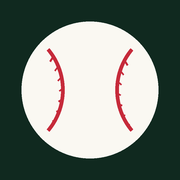
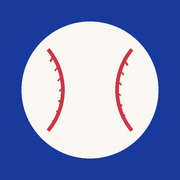
앱 전체 색을 팀 색(파란색)으로
- 전광판, 점수판, 강조색, 다크 모드를 파란 계열로
- 투구수 제한 표시는 빨간색으로 구분
- 앱 아이콘과 설치 시 배경색도 파란색

Claude-Session: https://claude.ai/code/session_01YaH1kdZ2WuPGiQRSLVYmve

diff --git a/index.html b/index.html
@@ -3,7 +3,7 @@
 <head>
 <meta charset="utf-8">
 <meta name="viewport" content="width=device-width, initial-scale=1, viewport-fit=cover">
-<meta name="theme-color" content="#f2f4f7" media="(prefers-color-scheme: light)">
+<meta name="theme-color" content="#f1f4fa" media="(prefers-color-scheme: light)">
 <meta name="theme-color" content="#0b1018" media="(prefers-color-scheme: dark)">
 <meta name="description" content="유소년 야구 경기 기록지: 볼카운트, 타격 결과, 이닝별 투수와 투구수, 시즌 성적">
 <meta name="mobile-web-app-capable" content="yes">
@@ -17,23 +17,23 @@
 <style>
 /* Layout: native-feeling phone app — sticky app bar, bottom nav (home/players/settings), game screen with thumb-zone pitch pad, bottom sheets, full-screen scoreboard */
 :root{
-  --bg:#f2f4f7; --surface:#ffffff; --surface2:#e8ecf1; --ink:#121b2d; --muted:#5c677a; --line:#dbe0e8;
-  --brand:#123524; --brand2:#1c4733; --brand-fg:#eef3ec; --lamp:#ffc642;
-  --seam:#c8303f; --seam-soft:#fbe6e8;
+  --bg:#f1f4fa; --surface:#ffffff; --surface2:#e6ebf5; --ink:#101a33; --muted:#5a6680; --line:#d8dfec;
+  --brand:#173a9c; --brand2:#2147b4; --brand-fg:#eef3ff; --lamp:#ffc642;
+  --seam:#2b5bd7; --seam-soft:#e6edfd; --on-accent:#ffffff;
   --ball:#2c8a53; --strike:#c07605; --out:#cf2a35; --on-sem:#ffffff;
   --scrim:rgba(10,15,25,.45); --warn-soft:#fff1d6; --snack:#121b2d; --shadow:0 8px 28px rgba(16,24,40,.14);
   --f:system-ui,-apple-system,"Apple SD Gothic Neo","Noto Sans KR","Malgun Gothic",sans-serif;
 }
 @media (prefers-color-scheme: dark){:root:not([data-theme="light"]){
   --bg:#0b1018; --surface:#141b27; --surface2:#1d2634; --ink:#e7ecf3; --muted:#949fb2; --line:#273143;
-  --brand:#0c2418; --brand2:#18402c; --brand-fg:#e4ebe1; --lamp:#ffcc55;
-  --seam:#ff5f6d; --seam-soft:#3a1a21;
+  --brand:#142a6e; --brand2:#1d3a8f; --brand-fg:#e3eaff; --lamp:#ffcc55;
+  --seam:#7fa4ff; --seam-soft:#18264a; --on-accent:#0b1018;
   --ball:#4cc27c; --strike:#f0a83a; --out:#ff6b74; --on-sem:#0b1018;
   --scrim:rgba(0,0,0,.6); --warn-soft:#3b2d12; --snack:#2b3648; --shadow:0 8px 28px rgba(0,0,0,.45); color-scheme:dark}}
 :root[data-theme="dark"]{
   --bg:#0b1018; --surface:#141b27; --surface2:#1d2634; --ink:#e7ecf3; --muted:#949fb2; --line:#273143;
-  --brand:#0c2418; --brand2:#18402c; --brand-fg:#e4ebe1; --lamp:#ffcc55;
-  --seam:#ff5f6d; --seam-soft:#3a1a21;
+  --brand:#142a6e; --brand2:#1d3a8f; --brand-fg:#e3eaff; --lamp:#ffcc55;
+  --seam:#7fa4ff; --seam-soft:#18264a; --on-accent:#0b1018;
   --ball:#4cc27c; --strike:#f0a83a; --out:#ff6b74; --on-sem:#0b1018;
   --scrim:rgba(0,0,0,.6); --warn-soft:#3b2d12; --snack:#2b3648; --shadow:0 8px 28px rgba(0,0,0,.45); color-scheme:dark}
 
@@ -77,7 +77,7 @@ svg{flex:none}
 .bnav button[aria-current="page"] svg{color:var(--seam)}
 
 .fab{position:fixed;z-index:9;right:max(18px,calc(env(safe-area-inset-right,0px) + 18px));bottom:calc(84px + env(safe-area-inset-bottom,0px));
-  display:flex;align-items:center;gap:8px;border:0;border-radius:18px;padding:15px 20px 15px 16px;background:var(--seam);color:#fff;font-size:15px;font-weight:800;box-shadow:var(--shadow)}
+  display:flex;align-items:center;gap:8px;border:0;border-radius:18px;padding:15px 20px 15px 16px;background:var(--seam);color:var(--on-accent);font-size:15px;font-weight:800;box-shadow:var(--shadow)}
 .fab svg{width:22px;height:22px}
 @media (min-width:640px){.fab{right:calc(50% - 300px + 18px)}}
 
@@ -181,7 +181,7 @@ select{appearance:none;-webkit-appearance:none;background-image:linear-gradient(
 .meter{height:10px;background:var(--surface2);border-radius:5px;overflow:hidden;position:relative}
 .meter i{display:block;height:100%;background:var(--ball);border-radius:5px;transition:width .2s}
 .meter.warn i{background:var(--strike)} .meter.bad i{background:var(--out)}
-.pill{font-size:11.5px;font-weight:800;padding:2px 8px;border-radius:999px;background:var(--seam-soft);color:var(--seam);vertical-align:3px}
+.pill{font-size:11.5px;font-weight:800;padding:2px 8px;border-radius:999px;background:var(--out);color:var(--on-sem);vertical-align:3px}
 .quick{display:flex;gap:6px;overflow-x:auto;padding-bottom:2px;margin:0 -2px;scrollbar-width:none}
 .quick::-webkit-scrollbar{display:none}
 .pad{position:fixed;left:0;right:0;bottom:0;z-index:9;background:var(--surface);border-top:1px solid var(--line);
@@ -306,11 +306,11 @@ textarea{min-height:240px;font:12.5px/1.55 ui-monospace,Menlo,"Roboto Mono",mono
 .snack button{border:0;background:transparent;color:#ffc642;font-weight:800;font-size:14.5px;padding:6px 10px;white-space:nowrap}
 
 /* full-screen scoreboard */
-.tv{position:fixed;inset:0;z-index:40;background:#06140d;color:#f1f5ee;display:flex;flex-direction:column;
+.tv{position:fixed;inset:0;z-index:40;background:radial-gradient(120% 80% at 50% 0%,#14286b 0%,#081232 60%,#050a1f 100%);color:#eef2ff;display:flex;flex-direction:column;
   padding:max(14px,env(safe-area-inset-top,0px)) max(18px,env(safe-area-inset-right,0px)) max(14px,env(safe-area-inset-bottom,0px)) max(18px,env(safe-area-inset-left,0px));gap:2vh;overflow:hidden}
 .tv-top{display:flex;justify-content:space-between;align-items:center}
 .tv-inn{font-size:clamp(22px,5vmin,52px);font-weight:900;color:#ffc642}
-.tv-x{width:44px;height:44px;border:0;border-radius:12px;background:rgba(255,255,255,.08);color:#f1f5ee;display:grid;place-items:center}
+.tv-x{width:44px;height:44px;border:0;border-radius:12px;background:rgba(255,255,255,.1);color:#eef2ff;display:grid;place-items:center}
 .tv-x svg{width:22px;height:22px}
 .tv-main{flex:1;display:grid;grid-template-columns:1fr;gap:2.5vh;min-height:0;align-content:center}
 .tv-score{display:flex;flex-direction:column;gap:1vh}
@@ -324,19 +324,19 @@ textarea{min-height:240px;font:12.5px/1.55 ui-monospace,Menlo,"Roboto Mono",mono
 .tv-cnt{display:flex;flex-direction:column;gap:1.4vmin}
 .tv-cnt>div{display:flex;align-items:center;gap:1.4vmin;font-weight:900;font-size:clamp(18px,4vmin,44px)}
 .tv-cnt>div>span{width:1.1em}
-.tv .dot{width:clamp(18px,4.4vmin,48px);height:clamp(18px,4.4vmin,48px);border:3px solid #2d4a3b;background:transparent}
+.tv .dot{width:clamp(18px,4.4vmin,48px);height:clamp(18px,4.4vmin,48px);border:3px solid #2f4277;background:transparent}
 .tv .dot.b.on{background:#4cc27c;border-color:#4cc27c}.tv .dot.s.on{background:#ffc642;border-color:#ffc642}.tv .dot.o.on{background:#ff5d6b;border-color:#ff5d6b}
 .tv .dia{max-width:min(30vmin,240px)}
-.tv .dia .base rect{fill:#0f241a;stroke:#5b7a69}
+.tv .dia .base rect{fill:#0c1a45;stroke:#6b81bd}
 .tv .dia .base.on rect{fill:#ffc642;stroke:#ffc642}
-.tv .dia .path{stroke:#2d4a3b}.tv .dia .home{fill:#f1f5ee}
+.tv .dia .path{stroke:#2f4277}.tv .dia .home{fill:#eef2ff}
 .tv-who{font-size:clamp(16px,3.6vmin,40px);font-weight:800;line-height:1.35}
 .tv-who small{display:block;font-size:.6em;opacity:.65;font-weight:700}
 .tv-pad{display:grid;grid-template-columns:1fr 1.4fr 1fr 1fr 48px;gap:8px}
-.tv-pad button{border:0;border-radius:10px;padding:12px 0;font-weight:800;font-size:clamp(13px,3.6vw,16px);color:#06140d;white-space:nowrap;display:grid;place-items:center}
+.tv-pad button{border:0;border-radius:10px;padding:12px 0;font-weight:800;font-size:clamp(13px,3.6vw,16px);color:#060d26;white-space:nowrap;display:grid;place-items:center}
 .tv-pad button svg{width:20px;height:20px}
-.tv-pad .b1{background:#4cc27c}.tv-pad .b2{background:#ffc642}.tv-pad .b3{background:#9fb0a6}.tv-pad .b4{background:#f1f5ee}.tv-pad .b5{background:rgba(255,255,255,.12);color:#f1f5ee}
-.tv-hide{border:0;background:transparent;color:rgba(241,245,238,.55);font-size:12.5px;padding:4px;align-self:center}
+.tv-pad .b1{background:#4cc27c}.tv-pad .b2{background:#ffc642}.tv-pad .b3{background:#a3b0cc}.tv-pad .b4{background:#eef2ff}.tv-pad .b5{background:rgba(255,255,255,.12);color:#eef2ff}
+.tv-hide{border:0;background:transparent;color:rgba(238,242,255,.55);font-size:12.5px;padding:4px;align-self:center}
 @media (orientation:landscape) and (min-width:560px){
   .tv-main{grid-template-columns:1.25fr 1fr;align-items:center}
   .tv-side{grid-template-columns:1fr;justify-items:start}

diff --git a/sw.js b/sw.js
@@ -1,6 +1,6 @@
 // 오프라인에서도 열리도록 앱 파일을 기기에 저장해 둡니다.
 // 같은 사이트의 PlayBall AI 저장본은 건드리지 않고, 기록지(scorebook-) 저장본만 정리합니다.
-const CACHE = 'scorebook-v7';
+const CACHE = 'scorebook-v8';
 const SHELL = ['./', './index.html', './manifest.webmanifest',
   './icons/icon-192.png', './icons/icon-512.png', './icons/maskable-512.png', './icons/apple-touch-icon.png', './team.jpg', './emblem.jpg'];
 
